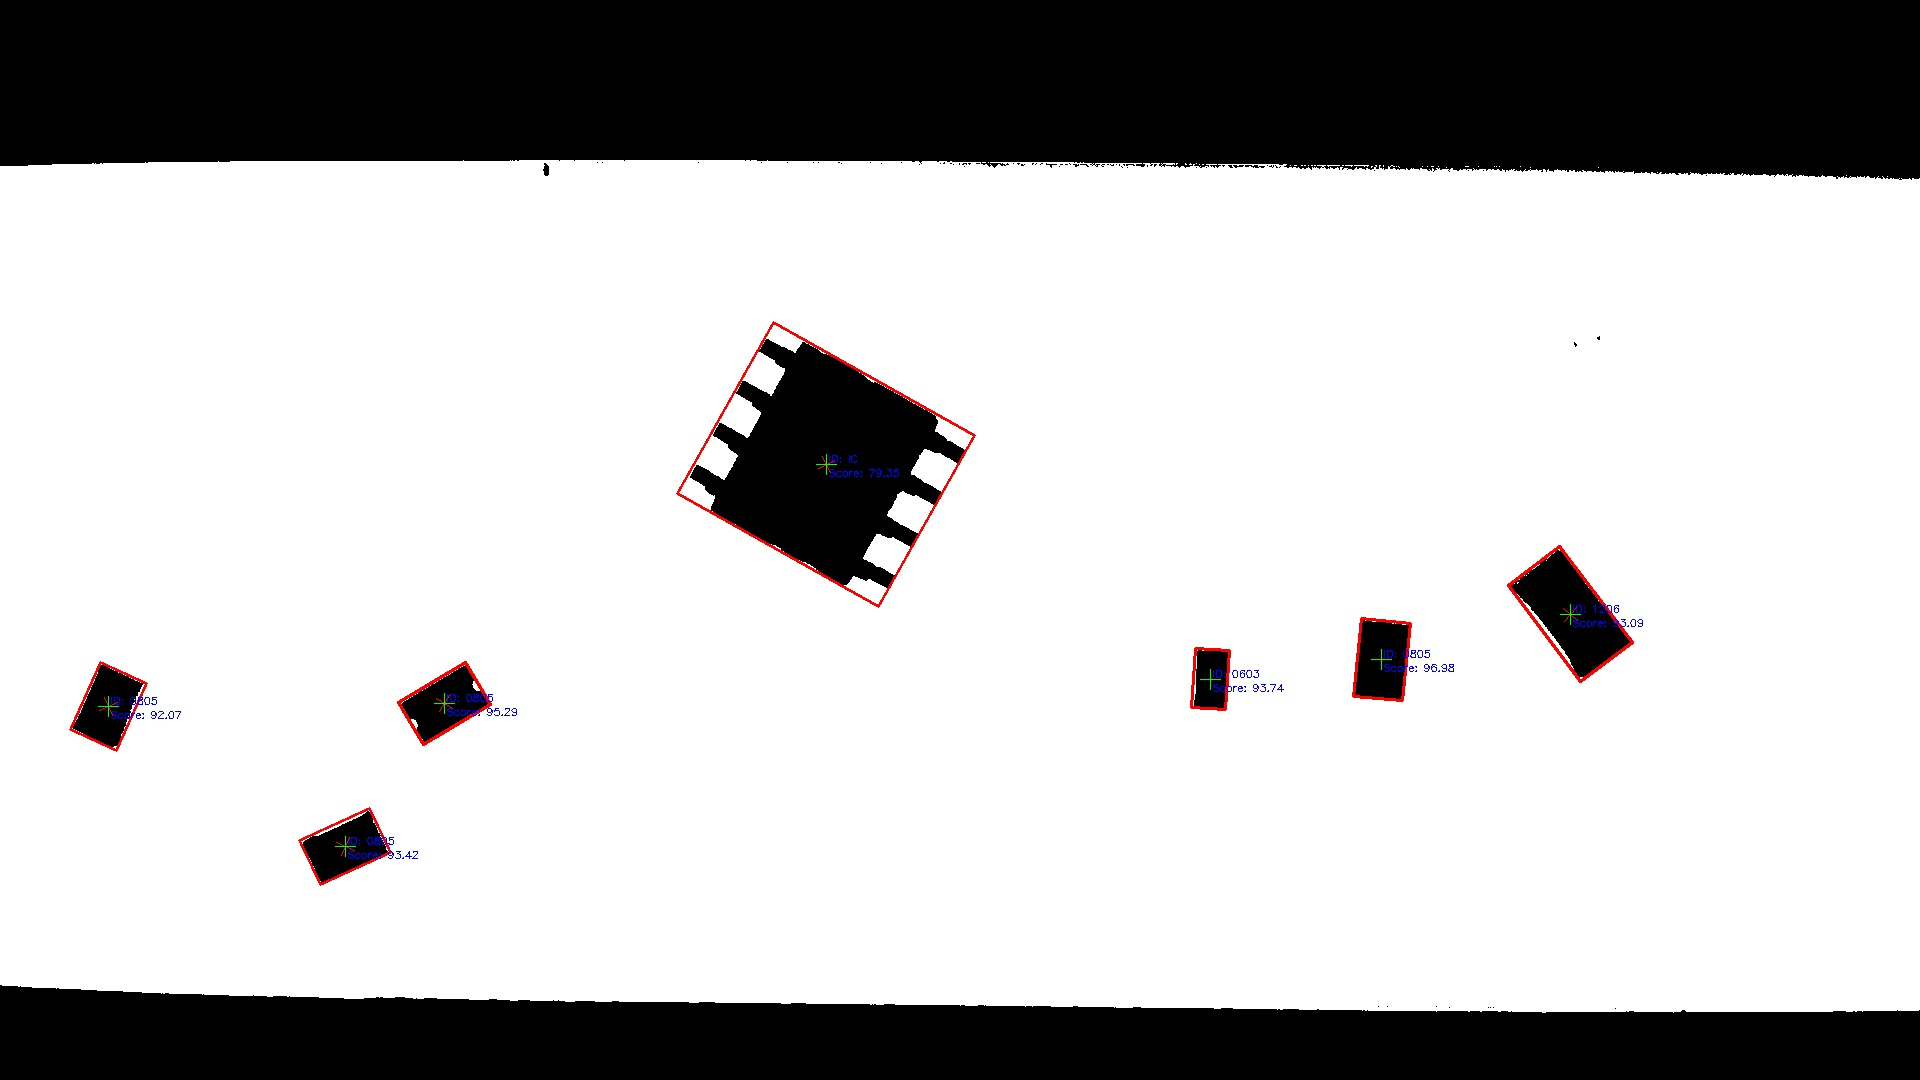
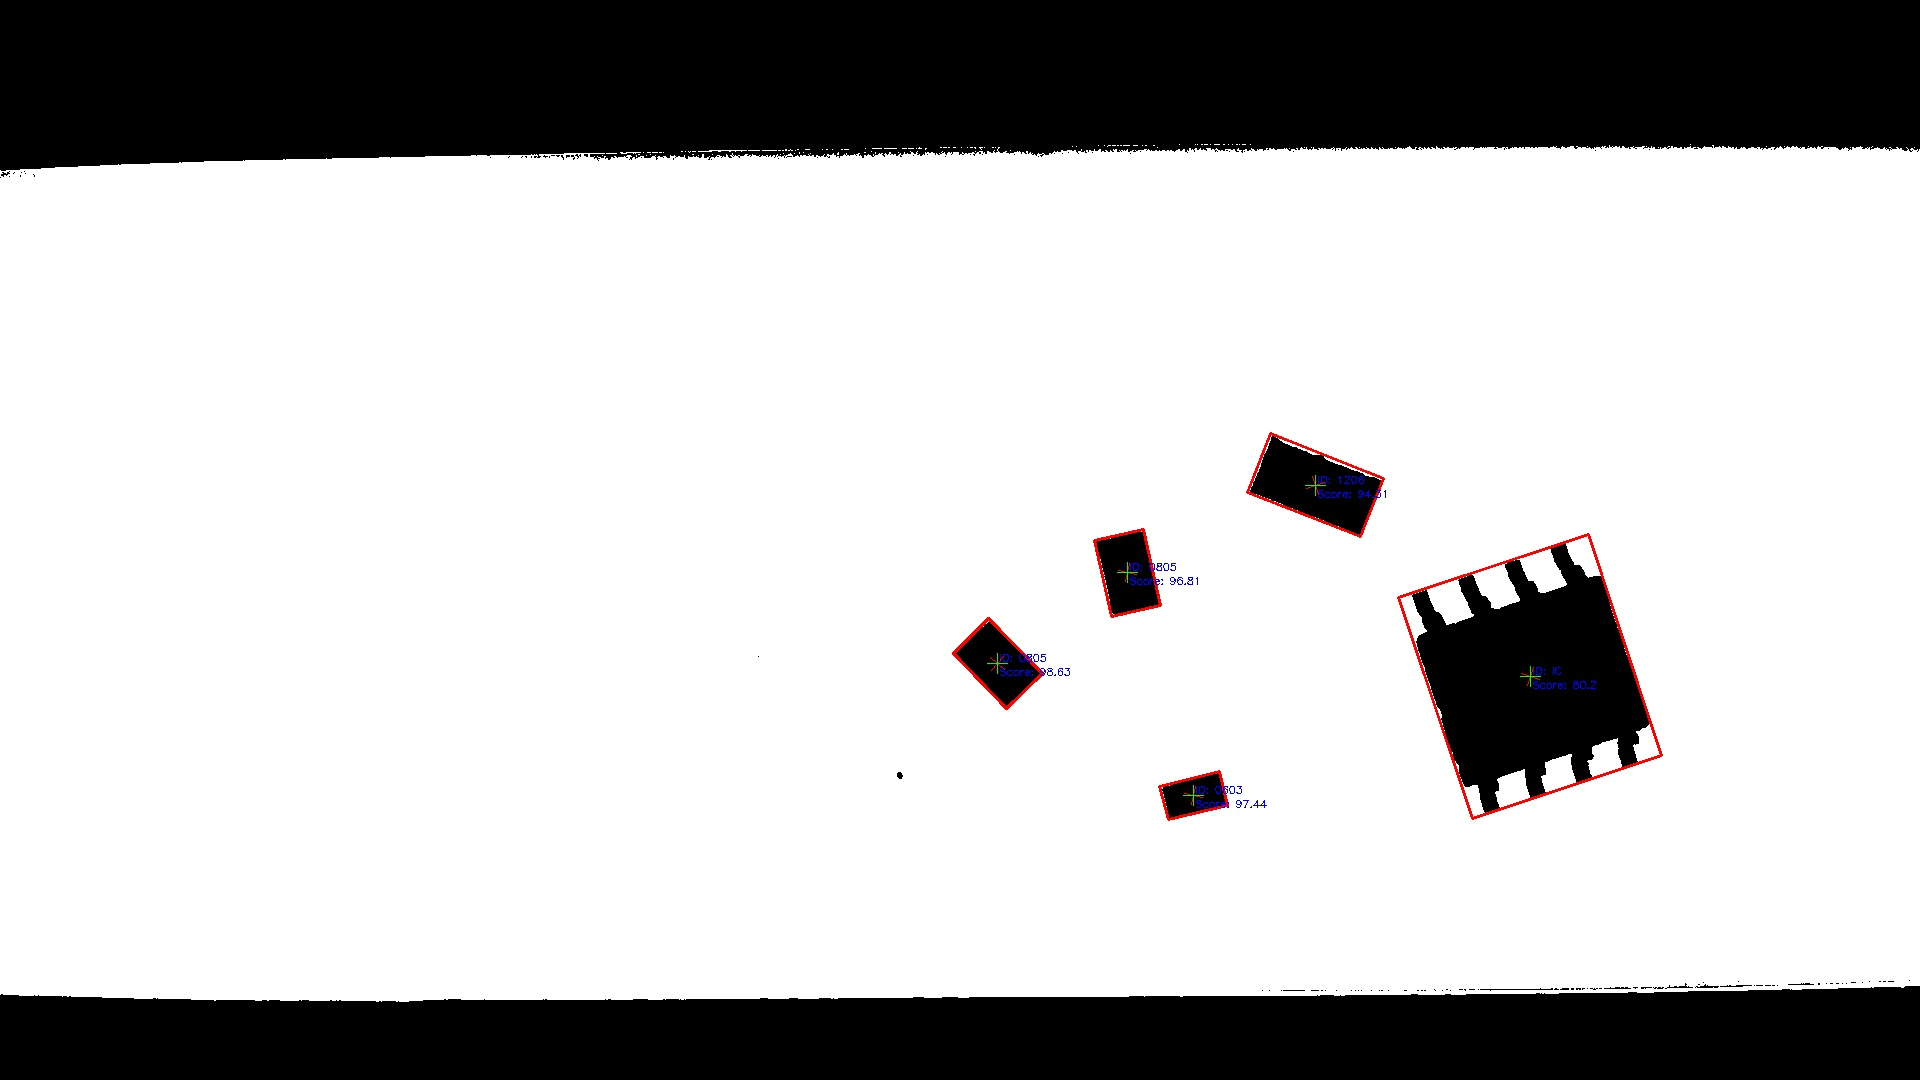
component names are saved in dictionary, along with value, checks between 10% tolerance boundary

diff --git a/locate.py b/locate.py
@@ -6,6 +6,8 @@ import serial
 import RPi.GPIO as GPIO
 import math
 
+component = {3780:'0805', 37200:'IC', 7080:'1206', 2022:'0603'}
+
 GPIO.setmode(GPIO.BCM)
 GPIO.setwarnings(False)
 
@@ -76,15 +78,24 @@ im2, contours, hierarchy = cv2.findContours(thresh, cv2.RETR_TREE, cv2.CHAIN_APP
 for count in range(len(contours)):
     drawID = ''
     area = cv2.contourArea(contours[count])
-    print(area)                         #Display area of each contour found
-    if(area >3000 and area < 4100):      
+    if(area > 200):
+        print(area)                         #Display area of each contour found
+        #drawID = str(area);                #Uncomment to draw area onto all objects found
+
+    for i in range(len(component)):
+        if(area < component.keys()[i]* 1.1 and area > component.keys()[i]*0.9):       #within suitable bounds (10%)
+            print component[component.keys()[i]]
+            drawID = component[component.keys()[i]]
+
+    '''if(area >3000 and area < 4100):      
         drawID = '0805'
-    if(area >33000 and area < 36400):
+    if(area >33000 and area < 38400):
         drawID = 'IC'
     if(area >1750 and area < 2100):
         drawID = '0603'
     if(area >7000 and area < 7500):
         drawID = '1206'
+        '''
     if(drawID):
         print "Model ID: " + str(drawID);
         print "Area: " + str(area)
@@ -112,9 +123,9 @@ for count in range(len(contours)):
         print "w: " + str(wVal)
         print "h: " + str(hVal)
         print "angle: " + str(angleVal)
-        print "10sinAngle: " + str(sinAngleVal)
-        print "10cosAngle: " + str(cosAngleVal)
-        print "Error: " + str(error)
+        #print "10sinAngle: " + str(sinAngleVal)
+        #print "10cosAngle: " + str(cosAngleVal)
+        #print "Error: " + str(error)
         print "Score: " + str(score)
         print "\n"
         box =cv2.boxPoints(rect)
@@ -136,7 +147,9 @@ cv2.waitKey(0)
 cv2.imwrite('FoundImg.jpg', im)
 GPIO.cleanup()
 
-
+def boundaries(checkArea):
+    if(checkArea > check*0.9 and checkArea < check*1.1):
+        print "here"
 
 
 
